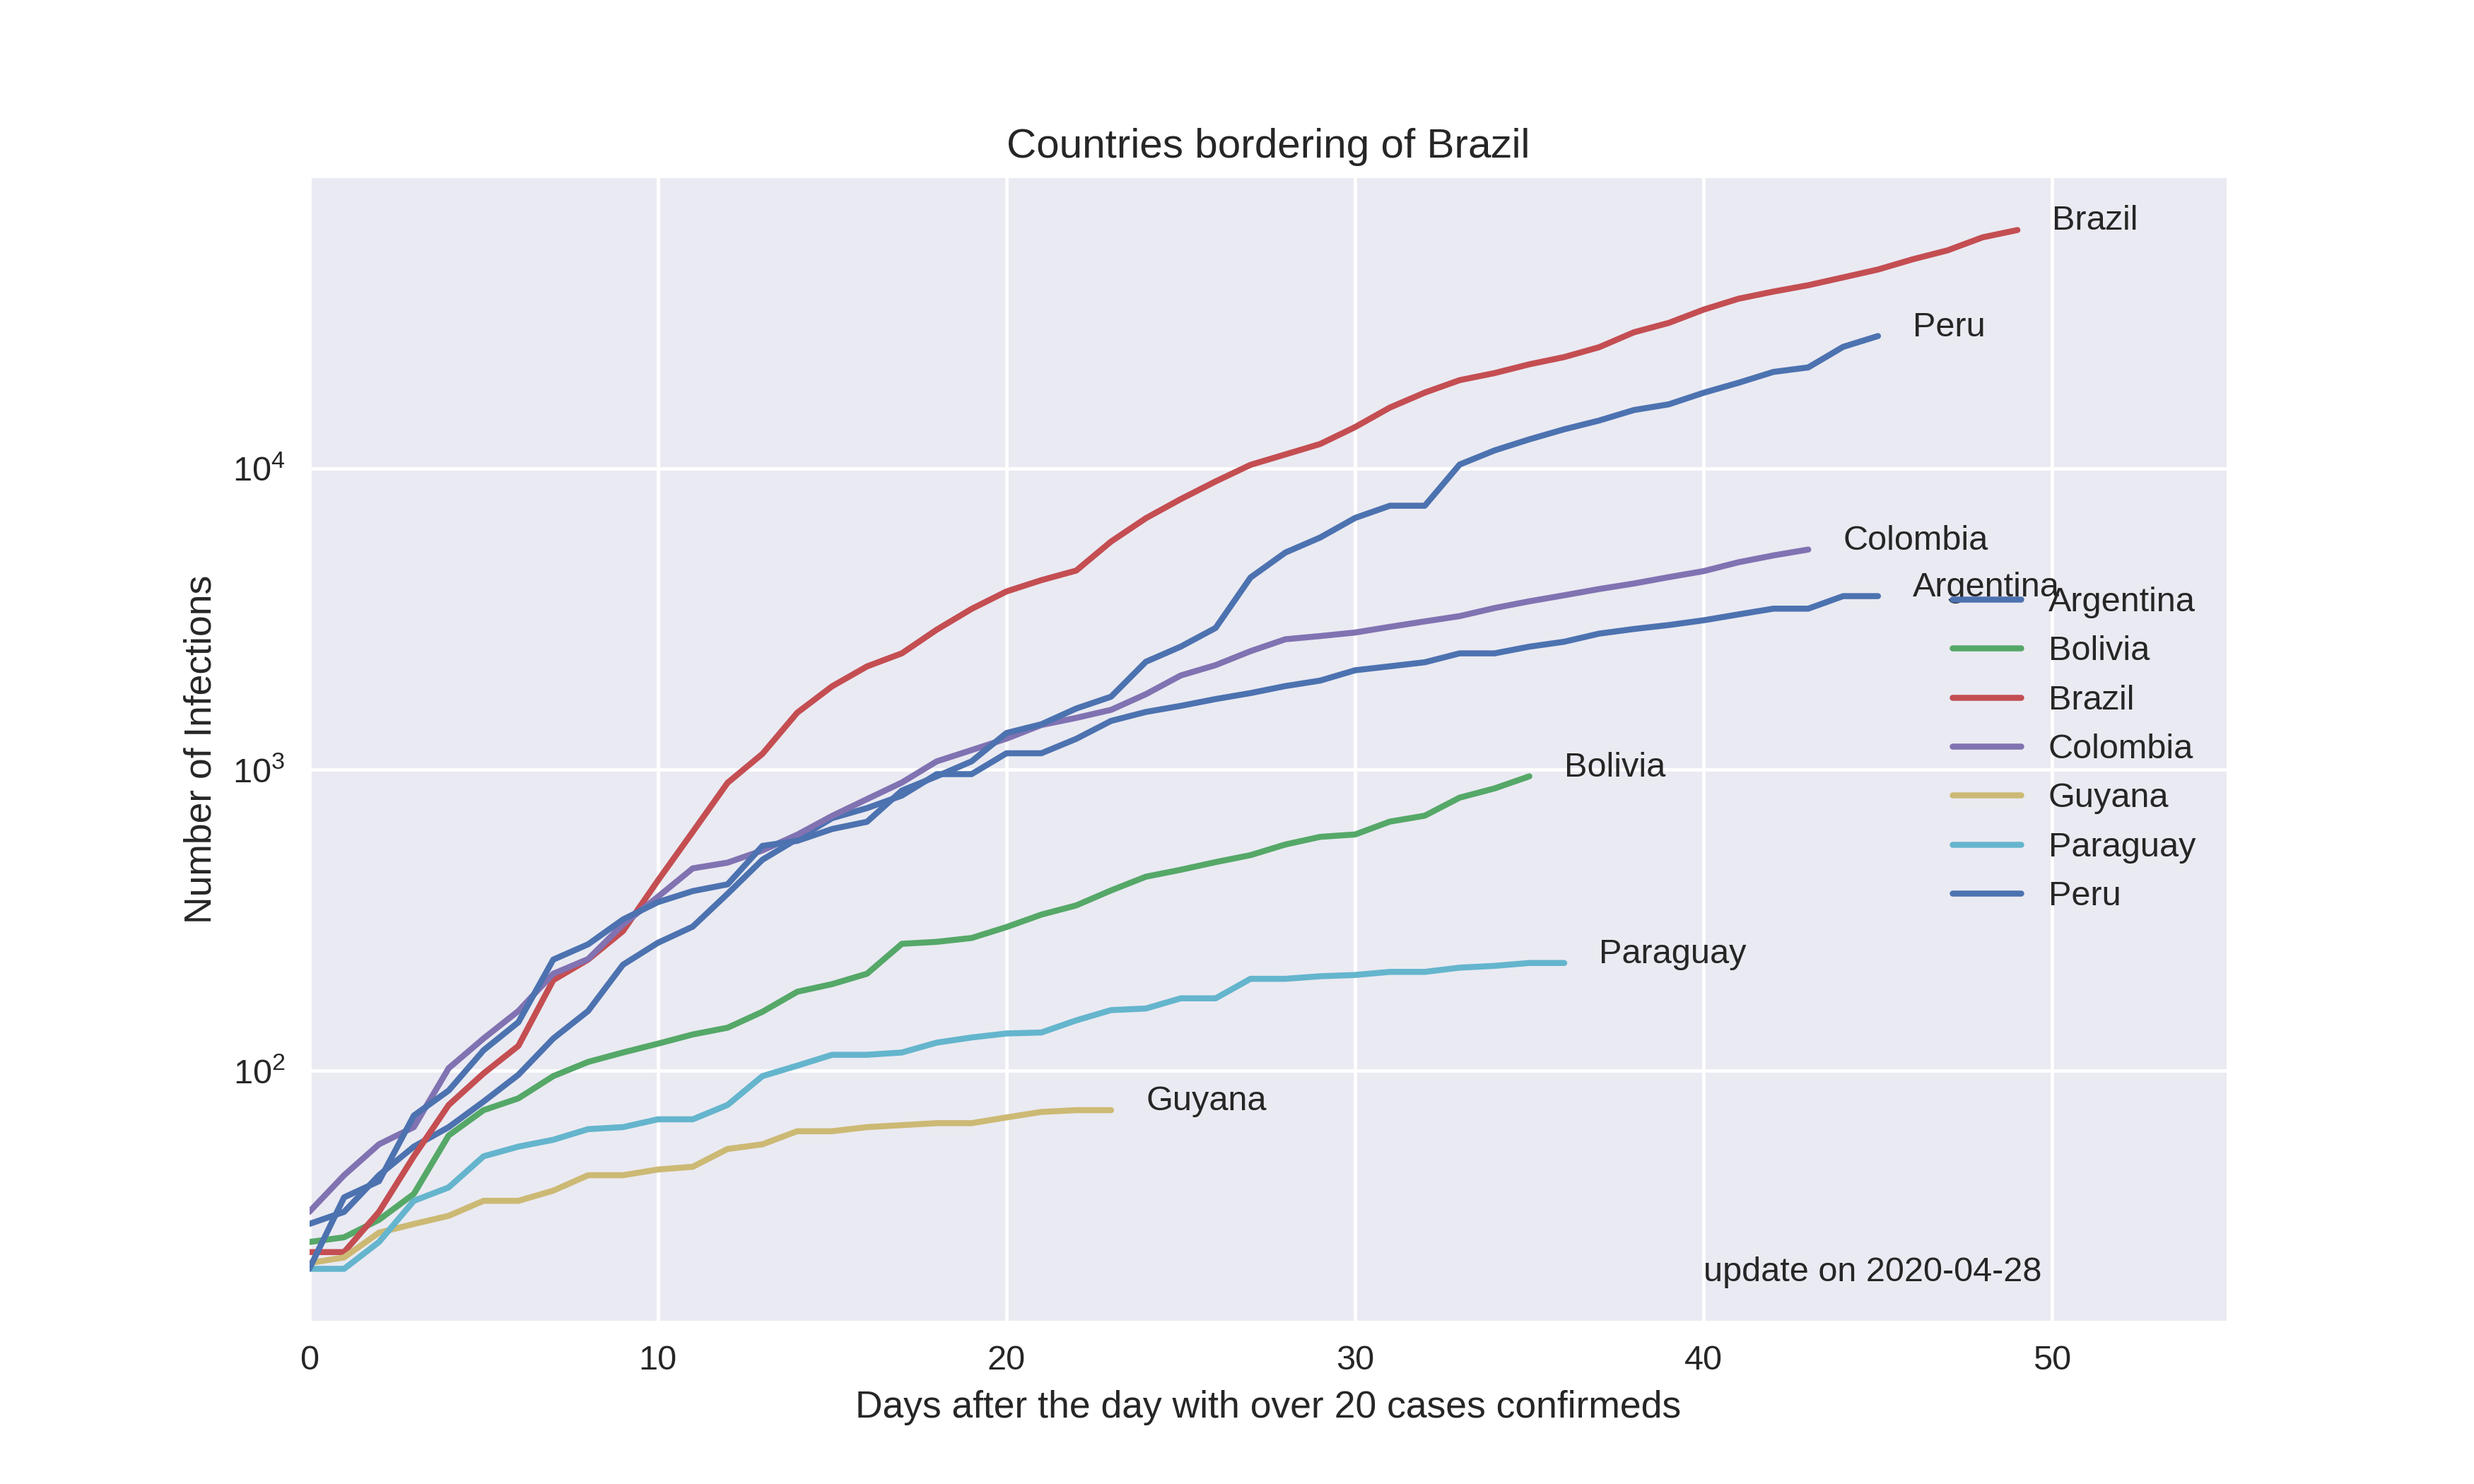
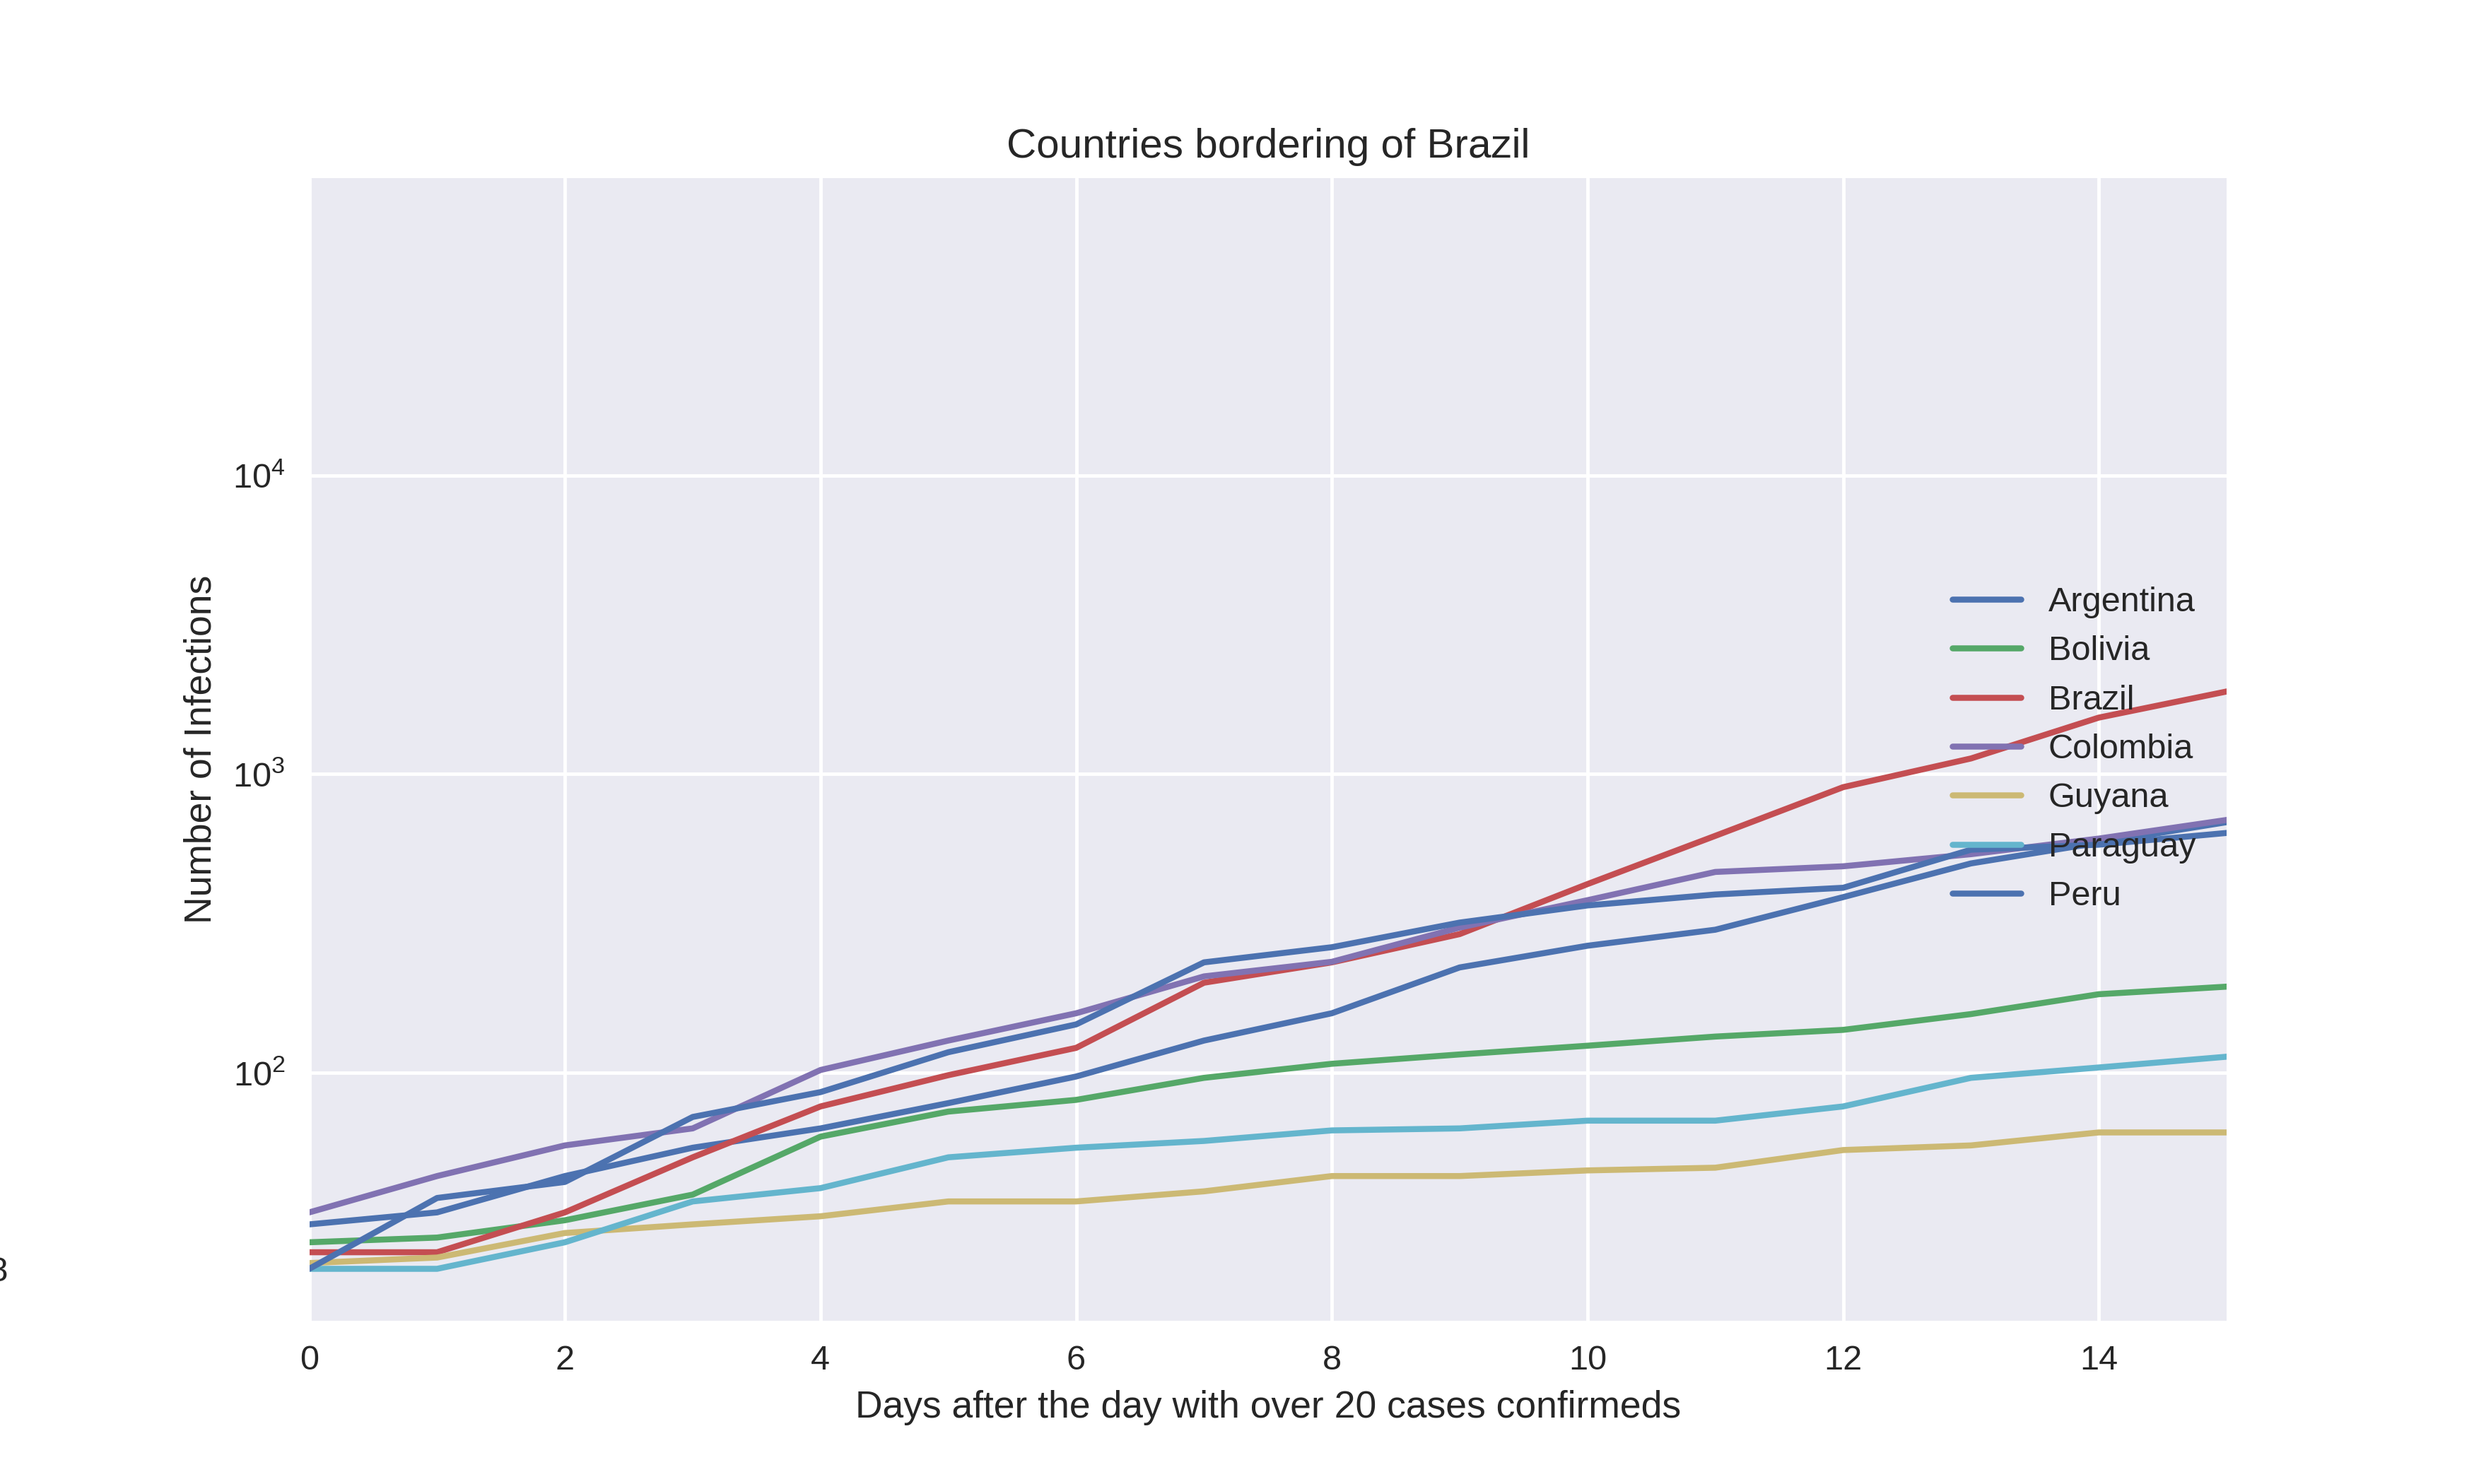
update image automake Brazil world

diff --git a/Corona-Brazil.py b/Corona-Brazil.py
@@ -116,8 +116,6 @@ sa = sorted(sa)
 san = total_data[(total_data.location.isin(sa)) & (total_data["total_cases"] > 20. )]
 psum = san.groupby('date').total_cases.sum()
 
-
-############################SA##############
 ############################SA##############
 
 fig = plt.figure(figsize=[10,6])
@@ -129,12 +127,12 @@ for ii in sa:
         ax.plot(p.total_cases.values,label=ii)
         ax.text(len(p),p.total_cases.values.max(),ii)
 ax.plot(psum.values,'g*-',label = "Sum South\n America")
-ax.text(len(psum),psum.values.max(),"Sum SouthAmerica",color="g")
-ax.text(40,1,'update on '+str(datetime.now().date()))
+ax.text(len(psum)-5,psum.values.max(),"Sum SouthAmerica",color="g")
+ax.text(len(p)-15,1,'update on '+str(datetime.now().date()))
 ax.set_yscale('log')
 ax.set_title("Countries of South America")
 ax.set_ylabel("Number of Infections")
-ax.set_xlim(0,55)
+ax.set_xlim(0,len(p)+15)
 ax.set_xlabel('Days after the day with over 20 cases confirmeds')
 plt.legend(loc=5)
 # plt.show()
@@ -160,11 +158,11 @@ for ii in borderBR:
         ax.plot(p.total_cases.values,label=ii)
         ax.text(len(p),p.total_cases.max(),ii)
 
-ax.text(40,20,'update on '+str(today))
+ax.text(len(p)-5,20,'update on '+str(today))
 ax.set_yscale('log')
 ax.set_title("Countries bordering of Brazil")
 ax.set_ylabel("Number of Infections")
-ax.set_xlim(0,55)
+ax.set_xlim(0,len(p)+15)
 ax.set_xlabel('Days after the day with over 20 cases confirmeds')
 plt.legend(loc=5)
 # plt.show()
@@ -200,7 +198,7 @@ ax.text(40,100,'update on '+str(today))
 ax.set_yscale('log')
 ax.set_title("Countries of World")
 ax.set_ylabel("Number of Infections")
-ax.set_xlim(0,60)
+ax.set_xlim(0,len(p)+15)
 ax.set_xlabel('Days after the day with over 100 cases confirmeds')
 plt.legend(loc=5)
 # plt.show()
@@ -229,11 +227,11 @@ for ii in TOP5:
     if len(p) > 0: 
         ax.plot(p.totalCases.values,label=ii)
         ax.text(len(p),p.totalCases.values.max(),ii)
-ax.text(35,50,'update on '+str(datetime.now().date()))
+ax.text(len(p)-10,50,'update on '+str(datetime.now().date()))
 ax.set_yscale('log')
 ax.set_title("5 States of Brazil")
 ax.set_ylabel("Number of Infections")
-ax.set_xlim(0,45)
+ax.set_xlim(0,len(p)+15)
 ax.set_xlabel('Days after the day with over 20 cases confirmeds')
 plt.legend(loc=5)
 plt.grid("both")
